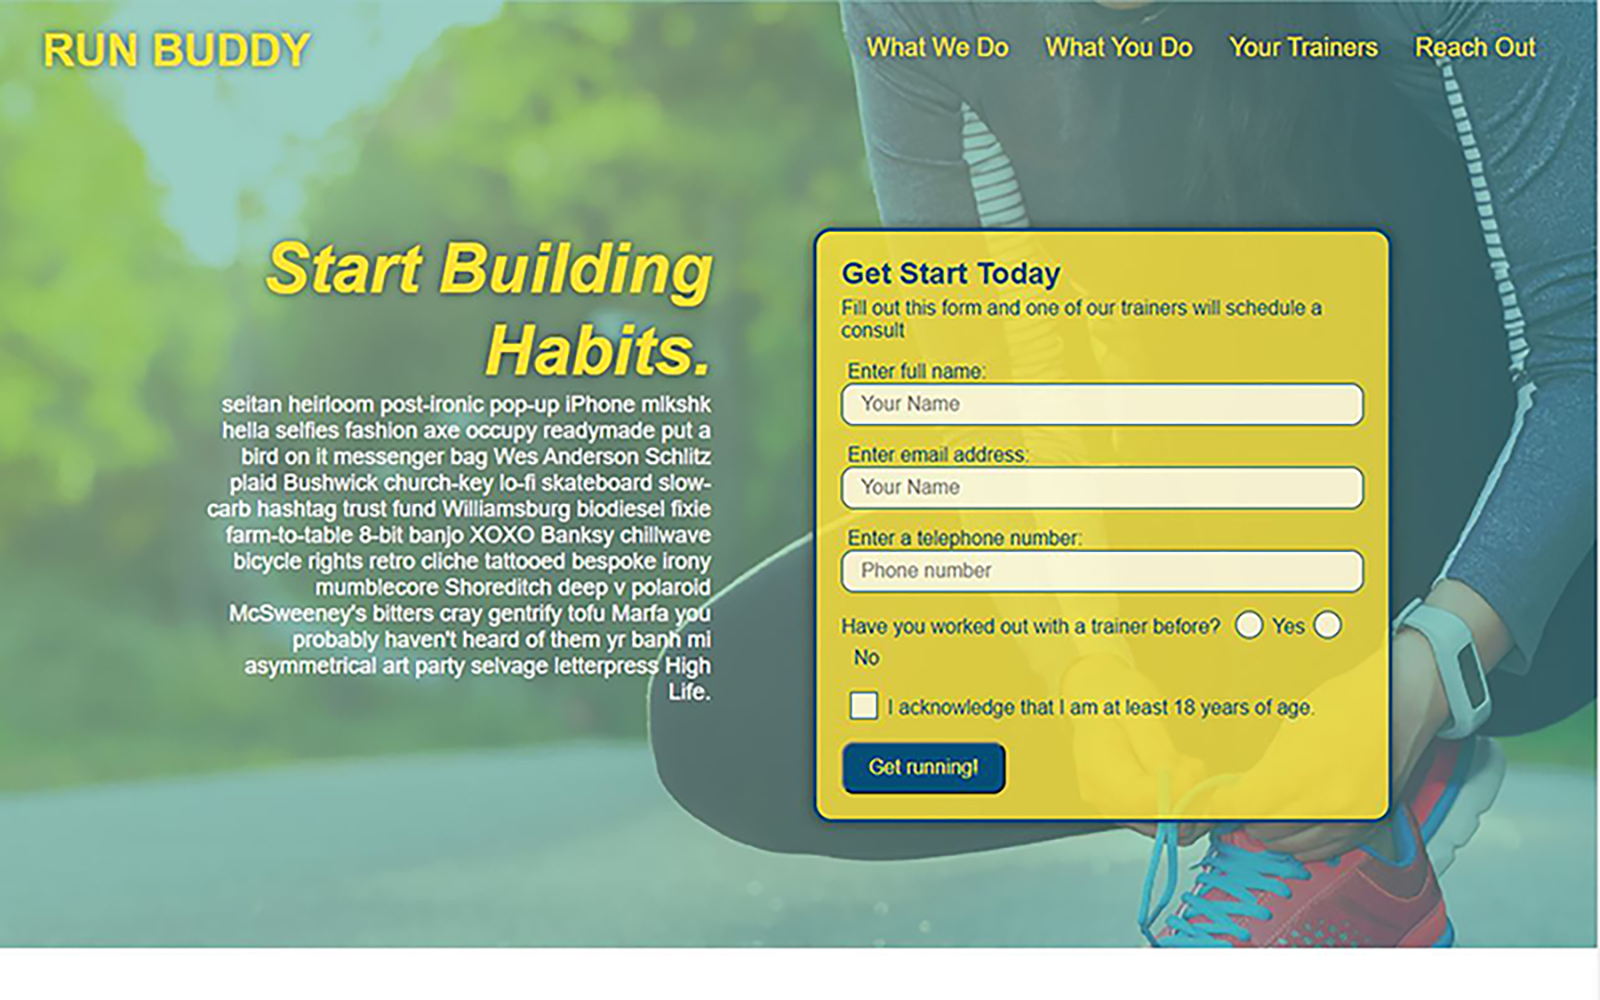
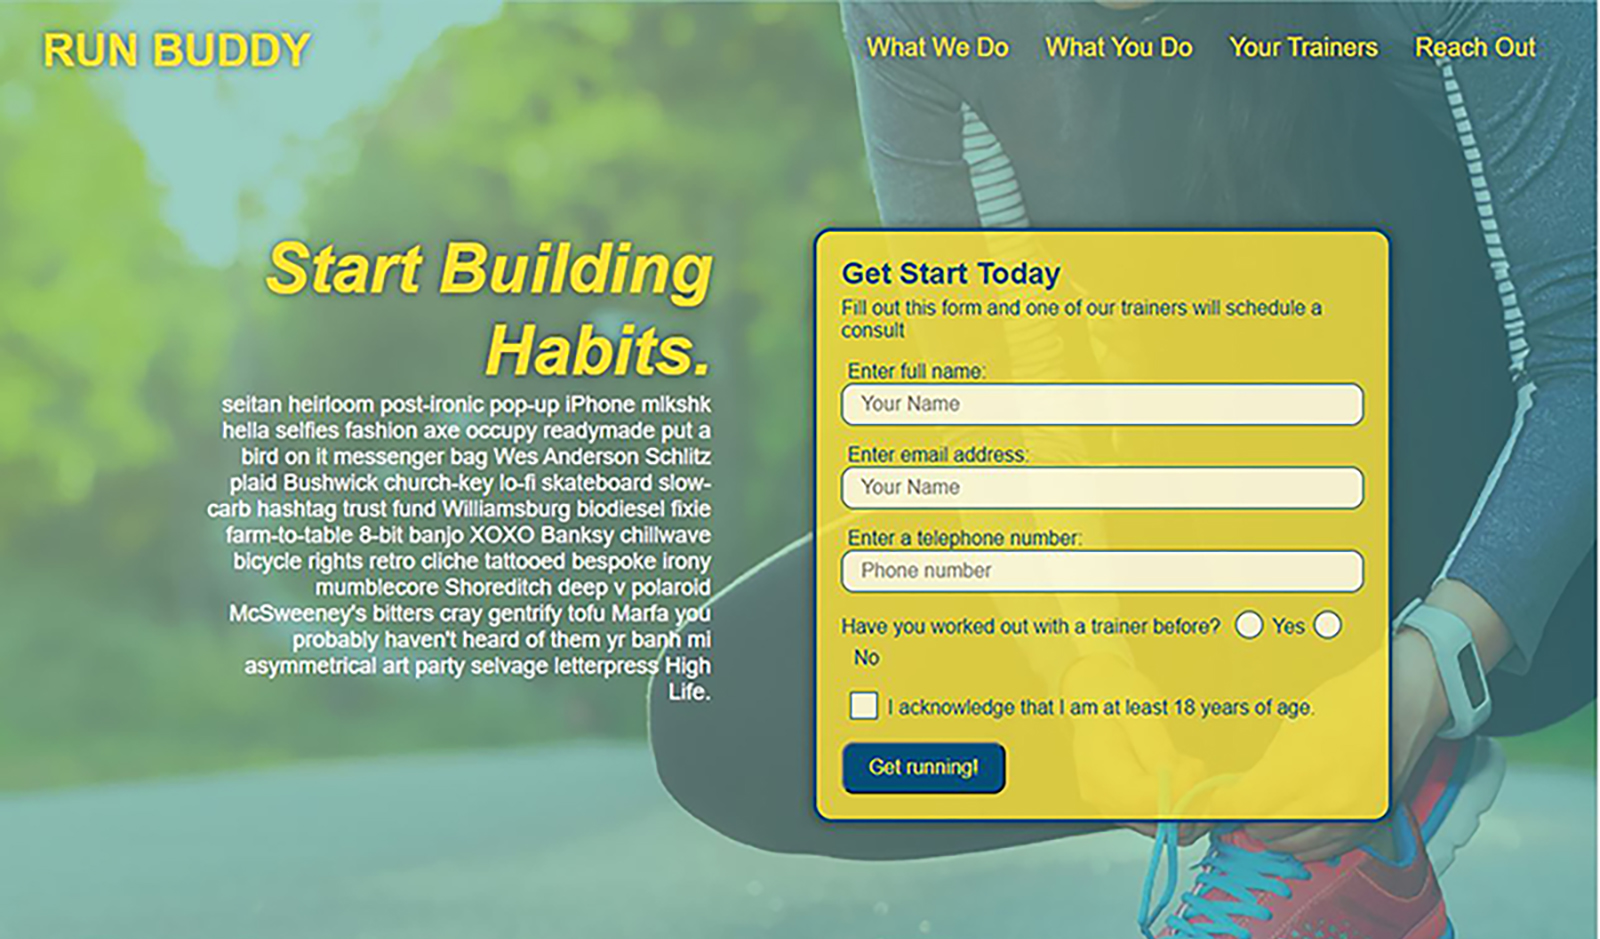
added highlight effect to images and finished refactoring and adding responsiveness

diff --git a/assets/css/style.css b/assets/css/style.css
@@ -44,7 +44,7 @@ header a {
 }
 
 header nav {
-    margin: 15px 0 0 0;
+    margin: 50px 0 0 0;
 }
 
 header nav ul {
@@ -119,12 +119,6 @@ section {
     line-height: 1.2;
 }
 
-.hero-cta h2 {
-    font-style: normal; 
-    font-size: 36px;
-    color: var(--secondary-color);
-}
-
 .welcome {
     padding: 15px 0 5px 0;
     text-align: center;
@@ -137,6 +131,7 @@ section {
 .about {
     flex: 1 30%;
 }
+
 .about p {
     line-height: 1.7;
     color: var(--secondary-color);
@@ -144,18 +139,18 @@ section {
     font-size: 20px;
 }
 
+.work-title {
+    position: relative;
+    bottom: 400px;
+}
+
 .work h3, .about h3, .contact h3 {
     color: #024e76;
     font-size: 46px;
-    margin-top: 10px;
     vertical-align: top;
     text-align: right;
     padding-right: 15px;
     width: 200px;
-}
-
-.work h3 {
-    vertical-align: top;
 }
 
 .about h3, .contact h3 {
@@ -207,32 +202,36 @@ section {
     color: var(--primary-color);
 }
 
-.steps-text p {
-    color: #39a6b2;
-    font-size: 18px;
-}
-
 .run-buddy {
     flex: 100%;
 }
 
 .run-buddy img {
     max-width: 100%;
+    filter: contrast(75%) brightness(75%);
+}
+
+.run-buddy img:hover {
+    filter: contrast(100%) brightness(100%);
 }
 
 .robot-gladiators img, .code-refactor img {
     max-width: 100%;
+    filter: contrast(75%) brightness(75%);
+}
+
+.robot-gladiators img:hover, .code-refactor img:hover {
+    filter: contrast(100%) brightness(100%);
 }
 
 .robot-gladiators, .code-refactor {
     flex: 50%;
     width: 300px;
     padding: 10px;
-    
 }
 
 .work, .about, .contact {
-    margin: 50px auto;
+    margin: 50px;
     padding-bottom: 50px;
     width: 80%;
     display: flex;
@@ -243,6 +242,15 @@ section {
 
 .flex-row {
     display: flex;
+}
+
+  
+/* MEDIA QUERY FOR LARGE TABLETS AND SMALLER */
+@media screen and (max-width: 1024px) {
+    .work-title {
+        position: relative;
+        bottom: 250PX;
+    }
 }
 
 /* MEDIA QUERY FOR SMALLER DESKTOP SCREENS AND SMALLER */
@@ -273,6 +281,10 @@ section {
         width: 100%;
     }
 
+    section {
+        padding: 30px 15px;
+    }
+    
     .hero-cta, .hero-form {
         width: 100%;
     }
@@ -281,50 +293,64 @@ section {
         text-align: center;
     }
 
-    .section-title {
+    .work, .about, .contact {
+        margin: auto;
+        padding-bottom: 50px;
         width: 80%;
+        display: flex;
+        flex-wrap: wrap;
+        align-items: center;
+        justify-content: space-between;
     }
-      
-    .trainer {
-        flex: 0 70%;
-    }
-    
-    .contact-info iframe{
-        flex: 1 100%;
-    }
-  }
-  
-  /* MEDIA QUERY FOR TABLETS AND SMALLER */
-  @media screen and (max-width: 768px) {
-    section {
-        padding: 30px 15px;
-    }
-    
-    .work h3, .about h3, .contact h3 {
+
+    .work-title {
+        position: relative;
+        bottom: auto;
         flex: 1 100%;
         text-align: center;
         border-bottom: 5px solid #39a6b2;
         border-right: none;
+    } 
+
+    .work-title h3 {
+        text-align: center;
+        margin: auto;
+        padding-right: 0px;
     }
 
-    .work-info {
-        border-left: none;
+    .about h3, .contact h3 {
+        flex: 1 100%;
+        text-align: center;
+        border-bottom: 5px solid #39a6b2;
+        border-right: none;
+        margin: auto;
     }
 
+    
     .work-info, .about-info, .contact-info {
         flex: 2 100%;
         text-align: center;
         justify-content: center;
+        padding-left: 0px;
+        border-left: none;
     }
-
+    
     .work img {
         flex: 0 32%;
         margin-right: 0;
         margin-top: 15px;
         margin-bottom: 15px;
     }
-
+    
     .work-text, .about-text, .contact-text {
         flex: 100%;  
     }
-  }
+
+}
+  
+
+/* MEDIA QUERY FOR TABLETS AND SMALLER */
+@media screen and (max-width: 980px) {
+
+
+}

diff --git a/index.html b/index.html
@@ -11,13 +11,12 @@
 <body>
       <!-- navigation -->
   <header>
-    <img src="./assets/images/erikjonesname.png" alt="">
+    <a href="#my-pic">
+      <img src="./assets/images/erikjonesname.png" alt="">
+    </a>
     <nav> 
-        <!-- Unordered list element -->
         <ul> 
-            <!-- List item element -->
             <li>
-                <!-- Anchor element -->
                 <a href="#about-me">About Me</a>
             </li>
             <li>
@@ -32,7 +31,7 @@
   </header>
 
   <!-- hero/jumbotron -->
-  <section class="hero">
+  <section id="my-pic" class="hero">
     <div class="hero-cta">
     </div>
   </section>
@@ -48,7 +47,7 @@
         Me</h3>
       <div class="about-info">
         <div class="about-text">
-          <p>
+          <p id="work">
             I currently am a Member Experience Specialist, for a credit union in Central Florida. The ever changing face of the financial industry has motivated
             me to expand my horizons and embark on a path to being a full stack web developer. This portfolio and my bio is a little light right now, but check back in a few months
             when I have even more to say about my skills.
@@ -57,13 +56,14 @@
       </div>
     </div>
 
-    <div id="work" class="work">
-      <h3>Work</h3>
+    <div class="work">
+      <div class="work-title">
+        <h3>Work</h3>
+      </div>
       <div class="work-info">
         <div class="work-text">
-
           <div class="run-buddy">
-            <a href="https://jonzee1914.github.io/run-buddy/">
+            <a href="https://jonzee1914.github.io/run-buddy/" target="_blank">
               <img src="./assets/images/run-buddy.JPG" alt="a thumbnail of run buddy project">
             </a>
             <div class="project-titles">
@@ -74,7 +74,7 @@
           </div>
 
           <div class="robot-gladiators">
-            <a href="https://jonzee1914.github.io/robot-gladiators/">
+            <a href="https://jonzee1914.github.io/robot-gladiators/" target="_blank">
               <img src="./assets/images/robot-gladiators.jpg" alt="a thumbnail of robot gladiators project">
             </a>
             <div class="project-titles">
@@ -85,7 +85,7 @@
           </div>
 
           <div class="code-refactor">
-            <a href="https://jonzee1914.github.io/code-refactor/">
+            <a href="https://jonzee1914.github.io/code-refactor/" target="_blank">
               <img src="./assets/images/code-refactor.jpg" alt="a thumbnail of code refactoring project">
             </a>
             <div class="project-titles">
